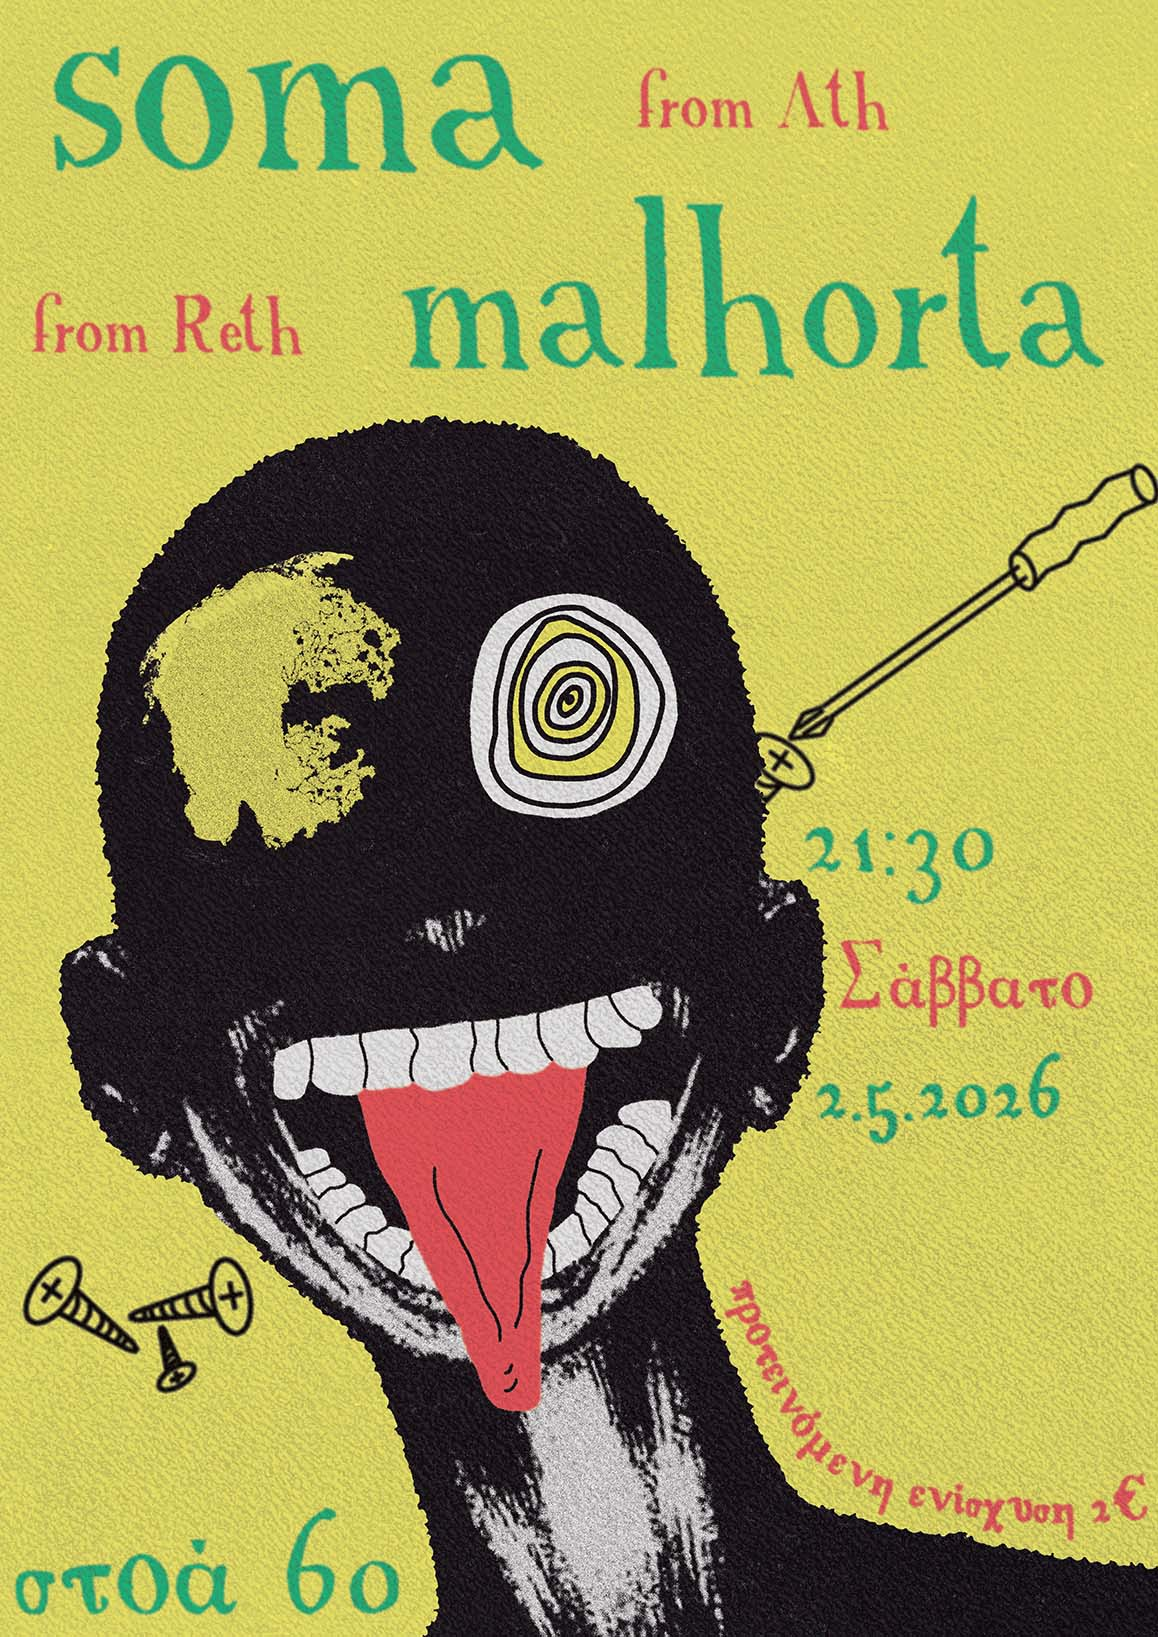
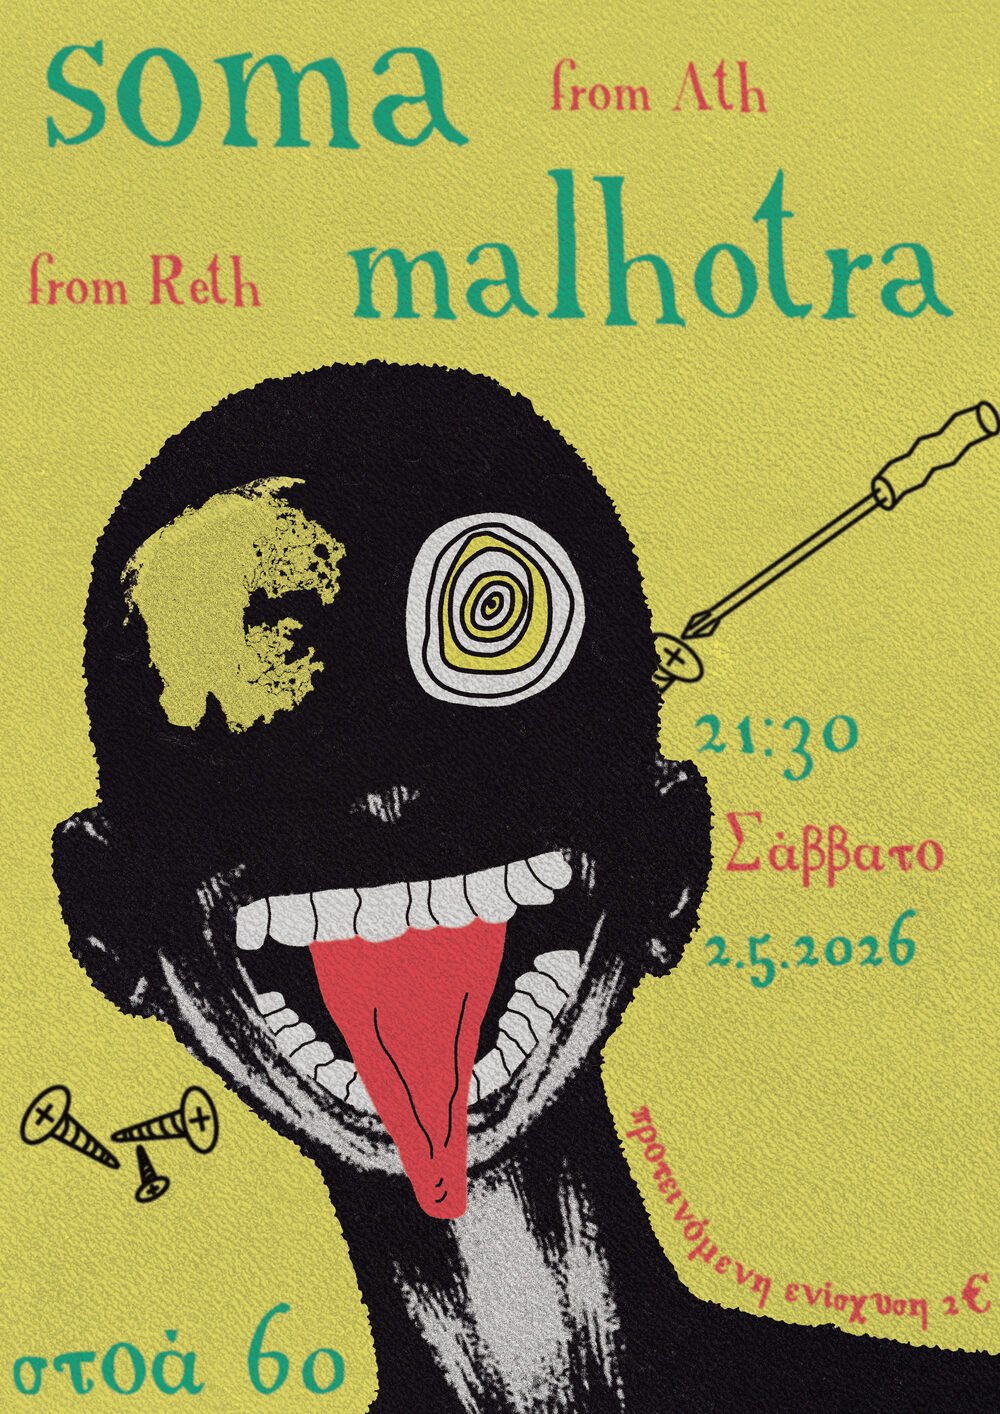
calendar updates, screening layout, poster refresh, AarghFuckKill casing
- Add Thymics × Humachines × Dismiss (9 May) to the gig calendar
- Rename AFK → AarghFuckKill with noUppercase flag so A/F/K stay visually
  distinct against the calendar's forced-uppercase styling
- Add screening entry type with i18n label (screening: / προβολή:) and
  subdued grey styling; remove placeholder Dark City entry, keep layout
- Update 2026-05-02 SOMA × Malhotra poster (compressed from 15 MB to 416 KB)
- Remove Junkheart × Pontikia gig (past), move poster to 2025-2026 folder
- Rename home poster import variable to nextGigPoster (neutral, weekly swap)
- Obfuscate contact email: drop mailto: link, display stoa_60[at]riseup.net
- Remove "Contact:" label from footer, clean up orphan i18n key

diff --git a/src/styles/global.css b/src/styles/global.css
@@ -75,6 +75,15 @@ html {
 }
 
 
+.screening-name {
+    display: inline-block;
+    transition: text-shadow 0.2s ease, transform 0.2s ease;
+}
+.screening-name:hover {
+    text-shadow: 0 0 6px rgba(255,255,255,0.25), 0 0 2px rgba(255,255,255,0.15);
+    transform: scale(1.02);
+}
+
 .title-flicker {
     animation: titleFlicker 16s infinite;
     will-change: text-shadow, opacity;

diff --git a/src/i18n/translations.ts b/src/i18n/translations.ts
@@ -68,6 +68,9 @@ export const translations: Record<string, Record<Lang, string>> = {
   "works.bar":        { el: "Bar",          en: "Bar"        },
   "works.title":      { el: "Posters",      en: "Posters"    },
 
+  // ─── Calendar ───
+  "cal.screening": { el: "προβολή:", en: "screening:" },
+
   // ─── 404 ───
   "404.title":   { el: "Page Not Found", en: "Page Not Found" },
   "404.message": { el: "Oops! It seems the page you are trying to access is broken or does not exist!", en: "Oops! It seems the page you are trying to access is broken or does not exist!" },